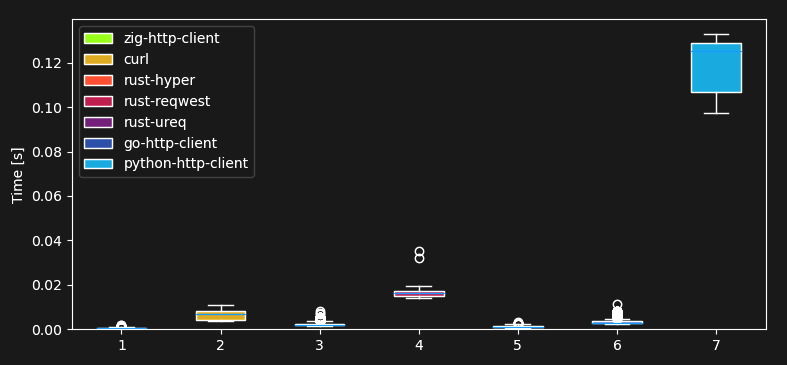
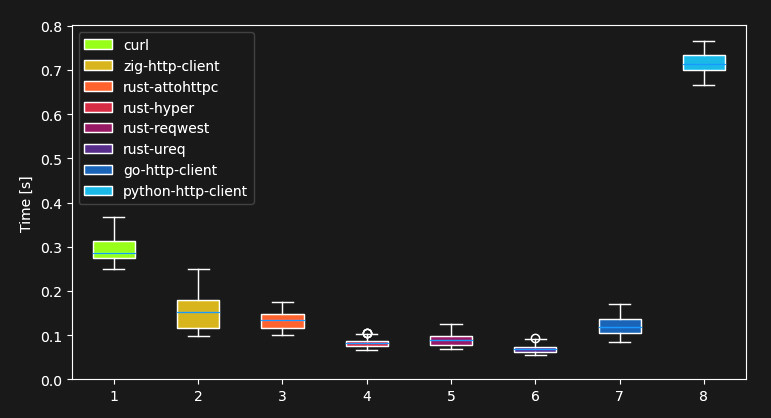
Update Zig benchmarks

diff --git a/content/zig-bits-04.md b/content/zig-bits-04.md
@@ -767,7 +767,7 @@ The benchmarks can be found in this repo: [**https://github.com/orhun/zig-http-b
 
 Currently, I'm comparing the HTTP client against:
 
-- Rust HTTP client ([hyper](https://crates.io/crates/hyper), [reqwest](https://crates.io/crates/reqwest), [ureq](https://crates.io/crates/ureq))
+- Rust HTTP client ([hyper](https://crates.io/crates/hyper), [reqwest](https://crates.io/crates/reqwest), [ureq](https://crates.io/crates/ureq), [attohttpc](https://crates.io/crates/attohttpc))
 - Go HTTP client (`net/http`)
 - Python HTTP client (`requests`)
 - [curl](https://curl.se)
@@ -777,28 +777,32 @@ The way it works is I run the Zig HTTP server and accept N number of requests fr
 To run the benchmarks, simply run `./bench.sh`:
 
 ```sh
-zig-http-client ran
-    2.75 ± 1.88 times faster than rust-ureq
-    3.44 ± 2.49 times faster than rust-hyper
-    9.16 ± 6.13 times faster than go-http-client
-   11.52 ± 6.02 times faster than curl
-   43.41 ± 20.09 times faster than rust-reqwest
-  248.53 ± 109.23 times faster than python-http-client
+rust-ureq ran
+    1.18 ± 0.22 times faster than rust-hyper
+    1.30 ± 0.27 times faster than rust-reqwest
+    1.74 ± 0.38 times faster than go-http-client
+    1.92 ± 0.40 times faster than rust-attohttpc
+    2.17 ± 0.63 times faster than zig-http-client
+    4.25 ± 0.73 times faster than curl
+   10.31 ± 1.47 times faster than python-http-client
 ```
 
-| **Command**          | **Mean [ms]** | **Min [ms]** | **Max [ms]** |    **Relative** |
-| :------------------- | ------------: | -----------: | -----------: | --------------: |
-| `zig-http-client`    |     0.5 ± 0.2 |          0.3 |          3.7 |            1.00 |
-| `curl`               |     5.5 ± 1.6 |          3.5 |         13.1 |    11.52 ± 6.02 |
-| `rust-hyper`         |     1.6 ± 1.0 |          0.7 |          7.9 |     3.44 ± 2.49 |
-| `rust-reqwest`       |    20.6 ± 3.7 |         14.7 |         34.1 |   43.41 ± 20.09 |
-| `rust-ureq`          |     1.3 ± 0.7 |          0.6 |          5.7 |     2.75 ± 1.88 |
-| `go-http-client`     |     4.3 ± 2.2 |          2.2 |         17.6 |     9.16 ± 6.13 |
-| `python-http-client` |  117.7 ± 12.3 |         98.2 |        138.7 | 248.53 ± 109.23 |
+| **Command**          | **Mean [ms]** | **Min [ms]** | **Max [ms]** | **Relative** |
+| :------------------- | ------------: | -----------: | -----------: | -----------: |
+| `curl`               |  295.2 ± 29.3 |        248.6 |        367.9 |  4.25 ± 0.73 |
+| `zig-http-client`    |  150.9 ± 38.1 |         98.5 |        250.2 |  2.17 ± 0.63 |
+| `rust-attohttpc`     |  133.4 ± 20.6 |        101.1 |        174.7 |  1.92 ± 0.40 |
+| `rust-hyper`         |   82.1 ± 10.1 |         65.7 |        106.0 |  1.18 ± 0.22 |
+| `rust-reqwest`       |   90.0 ± 14.0 |         67.8 |        126.0 |  1.30 ± 0.27 |
+| `rust-ureq`          |    69.5 ± 9.6 |         55.3 |         92.9 |         1.00 |
+| `go-http-client`     |  120.8 ± 20.0 |         84.6 |        171.6 |  1.74 ± 0.38 |
+| `python-http-client` |  716.5 ± 22.0 |        665.9 |        765.7 | 10.31 ± 1.47 |
 
 Here is the [whisker plot](https://en.wikipedia.org/wiki/Box_plot):
 
 ![benchmarks](/zig-http-benchmarks.jpg)
+
+Thanks to [@dnaka91](https://github.com/dnaka91) & [@truemedian](https://github.com/truemedian) for helping to make the comparison [more fair](https://github.com/orhun/zig-http-benchmarks/issues/2)!
 
 ## Conclusion ⚡
 
